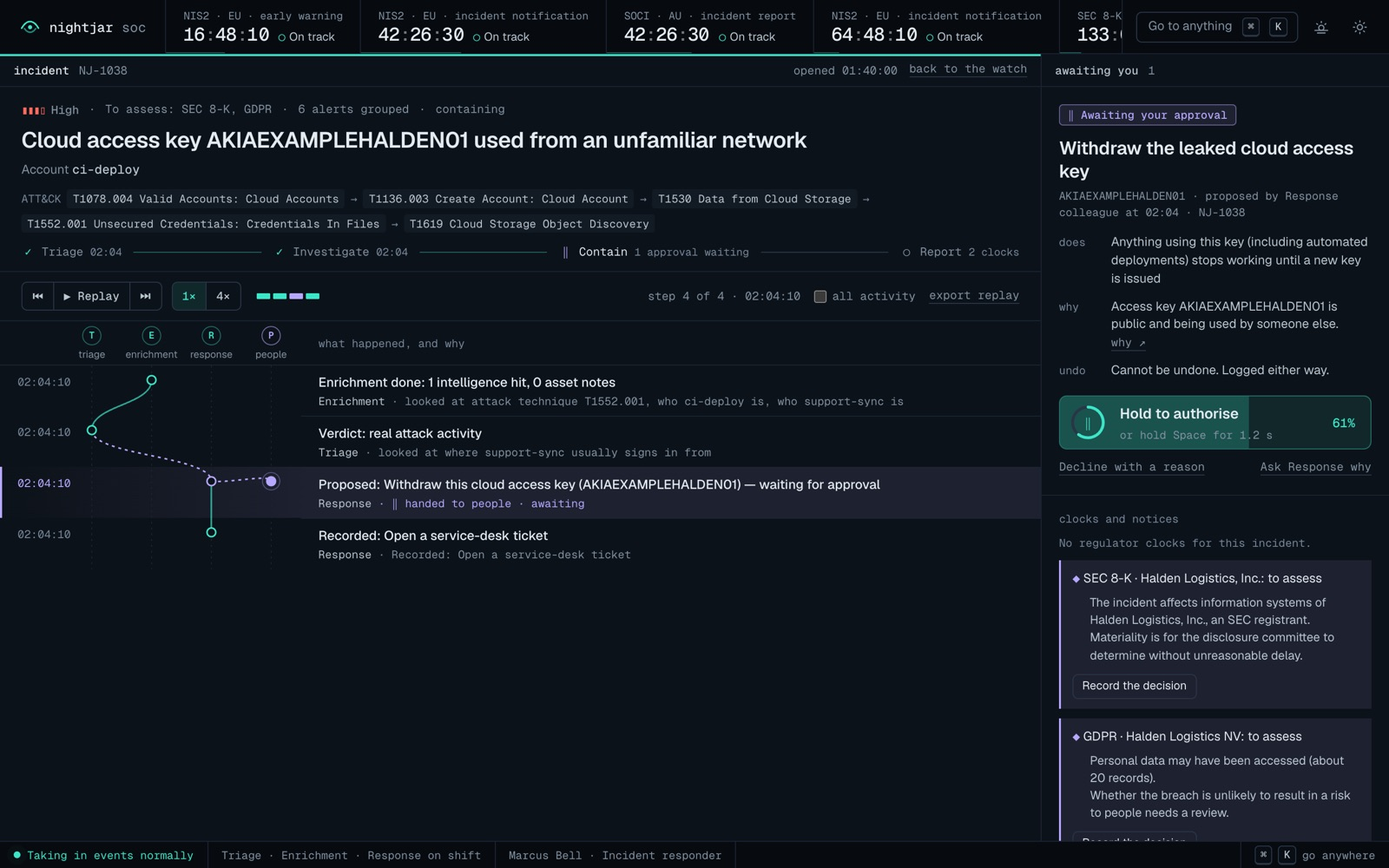
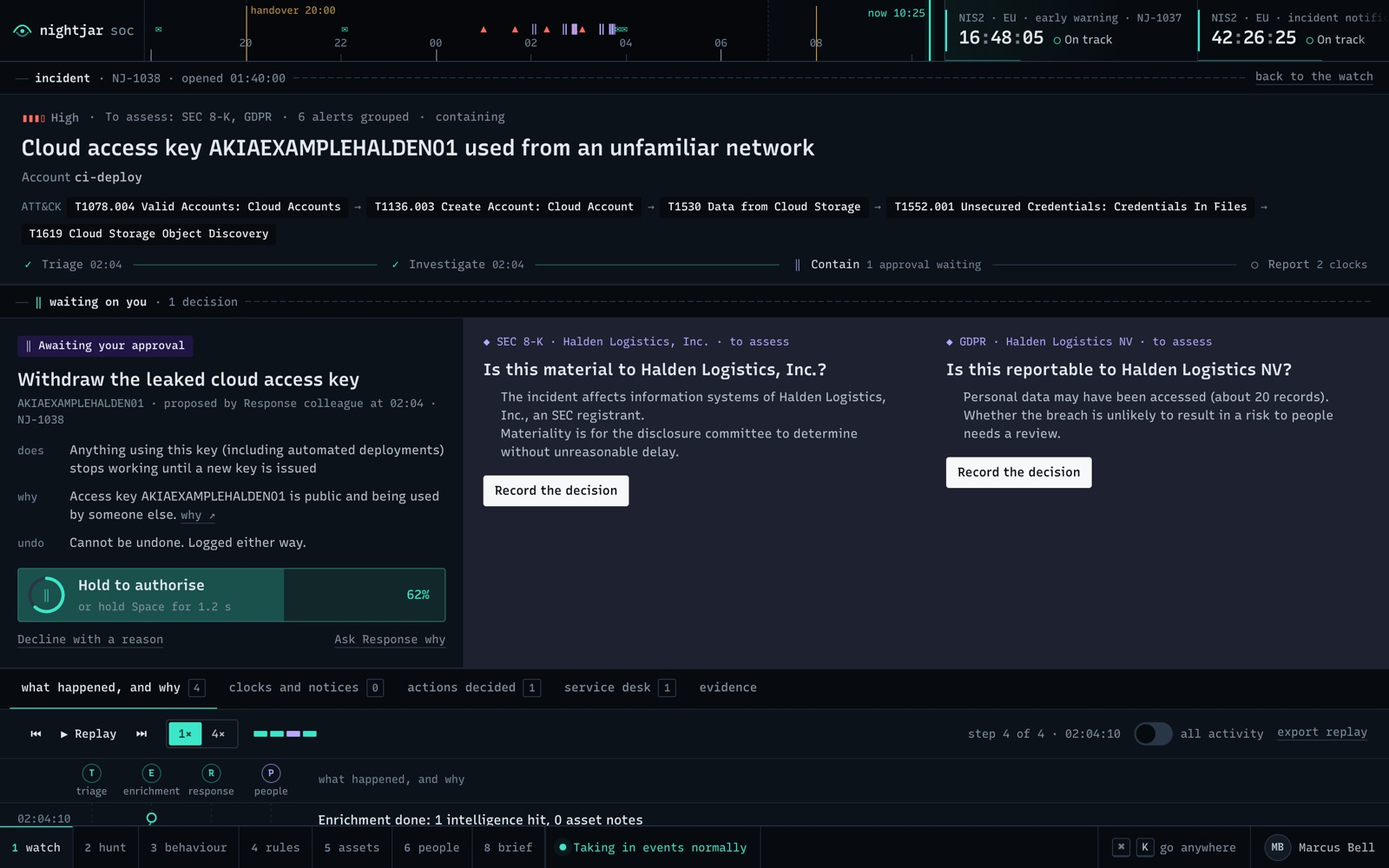
docs: the shift-chart layout, Skeleton and Recursive in the stack, and refreshed screenshots
DESIGN.md opens with the shift chart: why the night is the x-axis, the axis, band
and watch-bar layout, the Skeleton theme and component mapping, Recursive on its
MONO axis and the new motion. The day theme's teal is recorded at #087565 for AA.
The README names Skeleton in the stack, describes the watch as a shift chart, adds
the layout and contrast crawl and the current web test count, and the screenshots
are retaken with the demo clock on 20 November 2025.

diff --git a/frontend/DESIGN.md b/frontend/DESIGN.md
@@ -5,8 +5,103 @@
 Nightjar SOC is a managed security-operations platform for mid-size companies. It takes in security events around the clock and groups threats into incidents (Sigma rules, MITRE ATT&CK). It spots unusual behaviour, and three cooperating AI teammates (**Triage**, **Enrichment**, **Response**) investigate. When an incident is reportable, it starts the regulator's clock (EU NIS2, US SEC Form 8-K Item 1.05, Australia SOCI) and drafts the notice. **A person approves every response action.** Executives get a plain-language morning brief.
 
 - **Demo company:** **Halden Logistics**, with an EU distribution centre in Antwerp (NIS2, GDPR), a US-listed parent headquartered in Memphis (SEC Form 8-K), and a critical freight network run from Melbourne (SOCI).
-- **Stack:** SvelteKit + TypeScript + Tailwind 4.1 (the tokens below go into `@theme`). Motion uses Svelte built-ins only: `svelte/transition`, `svelte/animate` (`flip`), `crossfade`, and the `Spring`/`Tween` classes from `svelte/motion` with `prefersReducedMotion`. There is no animation library.
+- **Stack:** SvelteKit + TypeScript + Tailwind 4.1 with the **Skeleton** design system (`@skeletonlabs/skeleton` 3.2.2 + `@skeletonlabs/skeleton-svelte` 1.5.3, Zag.js underneath) on a custom `nightjar` theme built from the tokens below. Motion uses Svelte built-ins only: `svelte/transition`, `svelte/animate` (`flip`), `crossfade`, and the `Spring`/`Tween` classes from `svelte/motion` with `prefersReducedMotion`. There is no animation library.
 - **Copy date:** copy is written as of **late November 2025**. Anything time-sensitive is computed at runtime (§13).
+
+---
+
+## 0. The shift chart: how the console is laid out
+
+**§0 is the current layout and component system.** Where §3, §5, §6, §7, §10 or §16 describe the earlier tiled console (a clock bar on top, 1–4 tiles, a mono status line, Geist type), §0 wins; those sections still hold the metaphor, the palette, the status language, the clock rules, the baton, Hold to authorise and the copy voice.
+
+### 0.1 Why the night is the x-axis
+
+A night-shift analyst works one sequence: **intake → triage → investigation → containment approval → handover**, and every decision in it is anchored in time (when it started, how long it sat, which regulator clock it started, what the next shift inherits). The established tools show the same structure: queue-first homes (Splunk ES Mission Control's analyst queue, the Defender XDR incident queue, the Google SecOps case queue, Panther's alert list), phased response (Splunk ES response plans, SOAR workbooks, Google SecOps stages, the kill-chain view in Defender's incident summary), time drawn as lanes (Splunk's Asset & Identity Investigator swim lanes, Sentinel's parallel timeline), the incident as a log of time + responder + action (Google SecOps' Case Wall, Defender's Activities, the Google SRE incident document), and handover as a structured turnover (the SRE book's explicit hand-off; community SOC SOPs: active incidents, pending investigations, system health, notable events, compliance deadlines). NIST SP 800-61r3 keeps high-impact response actions with people.
+
+So the console is built on three ideas:
+
+1. **One shift axis across the top of every signed-in screen**: a time ruler from the 18:00 before the last night (or 12 hours back) to now. Night hours are shaded, the 08:00 and 20:00 shift changes are ruled, incidents (▲), approvals (‖) and notices (✉) sit where they happened, and a now line advances each minute. Past now, the axis folds into a **deadline gutter**: one flag per running regulator clock, with rolling digits. A new clock **drops onto the axis**.
+2. **Response stages as lanes** (Intake · Triage · Investigate · Contain · Report), read left to right in time. **Each incident is one line that steps down the lanes** at the times its log records, like a train on a railway dispatcher's timetable graph (Charles Ibry's chart, popularised by Marey for Paris–Lyon: time across, stations down, one line per train). A regulator clock marks the line (✉) without moving it, because a clock can start while containment is still waiting. Lines only ever step down.
+3. **The home is the turnover**: the handover sheet written live, in numbered sections, so the next shift never works from "I assumed you did it".
+
+### 0.2 The layout system: axis · bands · watch bar
+
+```
+┌───────────────┬────────────────────────────────────────────────────┬──────────────────────────────┐
+│ ◉ nightjar soc│ 18 · 20 ░░░ night ░░░ 00 · 02 · 04 · 06 ░│08 handover · 10 ┃now│▸ NIS2 16:48:35 ▸ SOCI 42:26 │ SHIFT AXIS 64
+├───────────────┴────────────────────────────────────────────────────┴──────────────────────────────┤
+│ ── the shift · 18:00 to now · 4 open incidents ───────────────────────────────── legend ─────────│
+│ intake        ▁▂▂▃▂▁▁▁▂▅█▃▂▁▁▂▂▁▁▂▂▃▂                               │ 1,240 events this hour      │ BAND 1
+│ triage            ●──┐        ●──┐                                  │                             │ the shift
+│ investigate          └──●        └─●──┐                             │ △ NJ-1039                   │ chart
+│ contain                 └────‖────────┼──────────────────────────── │ ‖ NJ-1038  ▲ NJ-1037        │
+│ report                                └──────────────────────────── │ ▲ NJ-1036                   │
+│ ── turnover · what the next person needs ────────────────────────────────────────────────────────│
+│ 1 waiting on you   │ 2 clocks to watch   │ 3 intake, live        │ 4 since you last looked       │ BAND 2
+├──────────────────────────────────────────────────────────────────────────────────────────────────┤
+│ 1 watch │2 hunt│3 behaviour│4 rules│5 assets│6 people│7 log│8 brief│ ● normal │ ⌘K │ (MB) you   │ WATCH BAR 44
+└──────────────────────────────────────────────────────────────────────────────────────────────────┘
+```
+
+- **Columns are shared.** The axis and every chart use one grid: lane labels (`--gut`, 132 px) · the night · the deadline gutter (`--dl`), so an incident's tick on the axis sits directly above its line.
+- **Bands.** Every page is a stack of full-width, hard-edged bands. Each opens with a terminal-style rule `── n · title · context ────── actions ─` in lowercase mono. Bands never sit side by side as cards; parallel sections (the turnover) are ruled columns inside one band, and they stack on narrow screens.
+- **Watch bar.** Docked full width at the bottom, tmux style: numbered windows `1 watch · 2 hunt · 3 behaviour · 4 rules · 5 assets · 6 people · 7 log · 8 brief` (Alt+1 … Alt+8), the intake health in plain words, ⌘K, and you (avatar → role, day watch, confirm-by-typing, settings, sign out). There is no sidebar and no top navigation; ⌘K stays the fastest way anywhere.
+- **Detail never opens as a side column.** A step's evidence, an asset, a decision or ⌘K open as Skeleton modals: a **bottom sheet** that rises over the bands, or a **dialog** that drops from the axis.
+
+| Screen | Layout |
+|---|---|
+| Watch `/watch` | Band 1: the shift chart (intake bars by hour; each incident's stepped line; open incidents as chips in the now column). Band 2: the turnover. Responders and admins: 1 waiting on you (approvals with Hold to authorise, the draft notice) · 2 clocks to watch · 3 intake, live (the event river) · 4 since you last looked. Analysts get *worth a hunt* first, auditors *the activity chain* and *evidence*. Phones: the lanes and the turnover as accordions |
+| Incident `/incidents/[id]` | Header band (severity, title, people and machines, ATT&CK chain, the stage rail with times) → **waiting on you** band directly under it (approval columns, each with Hold; open regulator assessments) → tabs: *what happened, and why* (the baton replay) · *clocks and notices* · *actions decided* · *service desk* · *evidence*. A step opens as a bottom sheet; the materiality decision as a dialog |
+| Notice | Readiness band (a progress meter, "4 of 5 required fields filled", missing fields as chips that jump to the field) → the draft band → the evidence band it cites (`[E-xx]` scrolls to and lights the item) |
+| Hunt, saved searches, rules, behaviour, assets, people, activity, settings | One band each. Registers are Skeleton tables; filters are segmented controls; an asset's detail is a bottom sheet; the activity log is paginated; settings switch between members and regulator contacts; deleting a saved search asks in a dialog |
+| Landing `/` | The product's own grammar replaying the night: the axis fills toward 03:13, intake bars rise, Joy's line steps down the lanes, the NIS2 flag drops into the gutter; under it the night log types left-aligned beneath a rolling clock and ends on "Someone is always on watch.", with the Hold box ("Turn off Joy's account?") in the gutter column. Then the shift log as one four-column ruled band (22:00 · 01:30 · 03:12 · 08:00 at dawn) and the clocks it keeps as a table |
+| Sign-in | The idle axis, then a left-aligned **sign-on** band: "You take the watch at 10:24 · Thursday 20 November", the demo roles as a segmented control, then your own account |
+| Brief `/brief` | The axis and the watch bar in dawn tones; dawn bands: the headline → the decision → **the night the watch saw** (the same shift chart, compact and read only) → one ruled band of clocks · approved overnight · on watch now and posture → overnight in plain words · seven nights |
+
+### 0.3 Component system: Skeleton
+
+Skeleton v3 (`@skeletonlabs/skeleton` 3.2.2 for the Tailwind 4 theme, presets and utilities; `@skeletonlabs/skeleton-svelte` 1.5.3 for the Svelte 5 components on Zag.js), with a custom **`nightjar`** theme (`src/lib/theme/nightjar.css`) generated from the palette in §8:
+
+| Skeleton scale | From | Use |
+|---|---|---|
+| `surface` 50–950 | the day and night neutrals (`#F6F8F9` … `#070B10`) | surfaces, rules (`surface-200-800` hairline, `300-700` strong) |
+| `primary` | mint teal: 300 = night `#3CE6C8`, 700 = day `#087565` (refined from `#0A7F6D`, which measured 4.2 : 1 on the day background) | live, focus, the teammates, on track (`preset-filled-primary-700-300`) |
+| `secondary` | lavender `#B6A8FF` / `#5B45C9` | waiting for a person, ◆ decisions |
+| `warning` · `error` · `success` | amber · red · teal-green | due soon · overdue, critical · contained, sent |
+| `tertiary` | steel | routine lines |
+
+Tailwind's `dark` variant follows `<html data-theme>`, so the light/dark pairings pick the day or night value. Radius: 3 px on controls, 0 on bands and sheets.
+
+| Was | Now |
+|---|---|
+| hand-rolled `.btn` / `.chip` / `.input` / `.ledger` | Skeleton `btn` + presets, `badge` / `chip`, `input` / `select` / `textarea` / `label`, `table` (with a thin Nightjar skin) |
+| segmented toggles | **Segment** (`Choice.svelte`) |
+| tiles (`Pane`) | `Band.svelte` |
+| clock bar, status line | the shift axis (**Tooltip** on marks, **Popover** of clocks on phones) and the watch bar (**Navigation** bar, **Avatar**, **Popover**, **Switch**) |
+| palette overlay, step drawer, decision sheet, asset pane, `window.confirm` | **Modal** (`Sheet.svelte`: bottom sheet or dialog) |
+| toast stack | **Toaster** + `createToaster` |
+| incident side column | **Tabs** |
+| phone tile swiping | **Accordion** |
+| hold ring SVG | **ProgressRing** driven by the hold state machine |
+| notice "missing fields" list | **Progress** + badges |
+| activity "more" | **Pagination** |
+
+### 0.4 Type: Recursive on its MONO axis
+
+One variable family, **Recursive** (Arrow Type; OFL), self-hosted from `@fontsource-variable/recursive` (the `mono` file: weight 300–1000 + the MONO axis, 72 KB for Latin). Recursive is "a variable font family for code & UI"; its Sans "borrows glyphs from its parent mono but adjusts the widths of many key glyphs for comfortable readability".
+
+- **Sans Linear** (MONO 0) for what a person reads or decides: titles, sentences, buttons.
+- **Mono Linear** (MONO 1) for what a machine wrote or a clock counts: log lines, IOCs, timestamps, clocks, lane and band labels. Fixed width keeps columns of times and addresses aligned; `0/O` and `1/l/I` stay distinct in an indicator.
+- No casual (CASL) styles anywhere. Labels stay lowercase mono, never tracked caps.
+
+### 0.5 Motion additions
+
+- **Drop** lands a deadline flag on the axis gutter (620 ms, back-out).
+- **Step:** incident lines grow rightward from where they opened (a clip, 900 ms) and step down a lane when the log records the next stage.
+- **Resolve:** a raw log line (MONO 1) eases into plain words (MONO 0) when it joins an incident, 600 ms.
+- **Now line:** advances each minute with a 2.4 s pulse.
+- **Bands** settle 6 px on arrival; sheets rise 24 px, dialogs drop 12 px from the axis, toasts slide 8 px.
+- `prefers-reduced-motion`: digits swap, lines appear whole, no Resolve, the hold ring shows a percentage, and modals and toasts appear without travel.
 
 ---
 
@@ -40,6 +135,13 @@ Every reference was re-checked in this design round. Vendor marketing pages were
 | 22 | Hyperping status page refresh: https://hyperping.com/blog/product-update-status-page-calendar-and-new-design | A **calm grey scale in both themes** so the one accent and the incidents stand out. → Teal is rationed to live, focus, the teammates and "on track". |
 | 23 | Gallery pieces with console, ops or night themes: Awwwards "Darknode" (SOTD, stealth/mission minimalism) https://www.awwwards.com/sites/darknode · Awwwards mission-control inspiration https://www.awwwards.com/inspiration/desktop-mission-control-1 · Order's interactive-console launch page (One Page Love) https://onepagelove.com/?p=49097 · "Orbital Reach" flight-director terminal landing (Kombai gallery) https://kombai.com/gallery/inspirations/orbital/ | A landing that **is** a working console rather than a picture of one, with minimal chrome and a single live element carrying the story. → The landing is the console replaying a night, and the headline arrives as the last log entry. **Avoided:** neon on black, glowing world maps (the Dribbble "security dashboard" cliché), scanlines and fake-hacker green. *Note: godly.website now redirects to recent.design; this was checked, and no Godly entry matched better than the pieces above.* |
 | 24 | Svelte motion API: https://svelte.dev/docs/svelte/svelte-motion | The `Spring`/`Tween` classes (`Tween.of`, `preserveMomentum`) and `prefersReducedMotion`. These drive Tick, Drop and Hold, plus `crossfade` + `flip` for Coalesce. |
+| 25 | Splunk ES 8 Mission Control and response plans: https://help.splunk.com/en/splunk-enterprise-security-8/user-guide/8.4/mission-control/respond-to-investigations-with-response-plans-in-splunk-enterprise-security | A **queue-first home** with a timeline toggle, and response as **phases of tasks**. → The turnover is home; the stage lanes are the phases. |
+| 26 | Splunk Asset & Identity Investigator: https://help-preview.splunk.com/en/splunk-enterprise-security-8/user-guide/8.0/analytics/asset-and-identity-investigator-dashboards | **Swim lanes over time**, one per event category. → Response stages as lanes on the shift axis. |
+| 27 | Google SRE, managing incidents and the incident document: https://sre.google/sre-book/managing-incidents/ · https://sre.google/sre-book/incident-document/ | An **explicit, acknowledged hand-off** and a living document whose timeline is time + responder + action. → The turnover band and the shift log. |
+| 28 | SecOps shift handoffs: https://cloud.google.com/blog/products/identity-security/how-to-nail-smooth-shift-handoffs-in-secops | Shifts fail through **incomplete details, wrong assumptions and dropped tasks**; use a standard handoff template. → The turnover's fixed, numbered sections. |
+| 29 | NIST SP 800-61r3: https://csrc.nist.gov/pubs/sp/800/61/r3/final | Leadership may hold authority over **high-impact response actions**; handlers should be able to choose containment manually. → Waiting on you sits directly under every incident header. |
+| 30 | Charles Ibry's timetable chart: https://en.wikipedia.org/wiki/Charles_Ibry | **One line per train, time across, stations down.** → One line per incident, the night across, the response stages down. |
+| 31 | Skeleton v3: https://v3.skeleton.dev/docs/get-started/installation/sveltekit · Recursive: https://github.com/arrowtype/recursive | The component system and its theme presets; one type family whose MONO axis separates what a person reads from what a machine wrote. |
 
 ---
 
@@ -524,7 +626,9 @@ Teammates appear as "Response (teammate)", never by internal names. A teammate's
 
 ## 7. Type
 
-**Geist** for UI and reading, **Geist Mono** for time, IDs, labels and keycaps. There is **no serif** anywhere. Labels are **lowercase mono** ("events", "awaiting you", "notice · draft 2"), never uppercase-tracked mono.
+> Superseded by §0.4: the console is set in **Recursive** (Sans Linear for reading, Mono Linear for time, IDs, labels and keycaps). The roles and sizes below still apply with Recursive in place of Geist / Geist Mono.
+
+**Recursive Sans** for UI and reading, **Recursive Mono** for time, IDs, labels and keycaps. There is **no serif** anywhere. Labels are **lowercase mono** ("events", "awaiting you", "notice · draft 2"), never uppercase-tracked mono.
 
 | Token | Face / weight | Size / line | Use |
 |---|---|---|---|
@@ -538,7 +642,7 @@ Teammates appear as "Response (teammate)", never by internal names. A teammate's
 | `body` | Geist 400 | 13–14 / 1.45 (console), 16–19 / 1.6 (brief) | text |
 | `meta` | Geist Mono 400 | 11–12.5 / 1.3 | timestamps, "looked at", pane titles, keycaps |
 
-Numbers in mono always use `tnum`. Geist Mono's slashed zero is kept: it is part of the console's identity and avoids O/0 confusion in IDs.
+Numbers in mono always use `tnum` and the slashed zero (`zero`): it is part of the console's identity and avoids O/0 confusion in IDs.
 
 ---
 
@@ -573,7 +677,7 @@ Mint teal (hue ≈170°) is the only accent. It is used for **light and line** (
 | `bg` / `pane` / `raised` | `#E9EEF0` / `#FFFFFF` / `#F3F6F7` |
 | `line` / `line-strong` | `#DCE3E7` / `#C4CED4` |
 | `ink` / `ink-2` / `muted` / `faint` | `#0B141B` / `#2B3943` / `#53626E` / `#5F6E78` (faint is 4.85 : 1 on white) |
-| `teal` | `#0A7F6D` (4.9 : 1 on white) |
+| `teal` | `#087565` (5.6 : 1 on white, 4.8 : 1 on the day background; was `#0A7F6D`, 4.2 : 1 on the background) |
 | `amber` / `red` / `lav` | `#8A5D00` / `#B42318` / `#5B45C9` |
 
 ### Brief: dawn (light, default) and night edition (dark)
@@ -585,7 +689,7 @@ Mint teal (hue ≈170°) is the only accent. It is used for **light and line** (
 | `ink` / `ink-2` | `#0D1A20` / `#33444C` | `#E6EDF1` / `#BAC7CE` |
 | `muted` / `faint` | `#4C5B63` (5.3 : 1 on the wash) / `#5E6D74` | `#8F9EA8` / `#8392A0` |
 | `rule` / `rule-2` | `#DCE4E2` / `#C9D4D1` | `#1B2731` / `#283643` |
-| `teal` / `lav` | `#0A7F6D` / `#5B45C9` | `#3CE6C8` / `#B6A8FF` |
+| `teal` / `lav` | `#087565` / `#5B45C9` | `#3CE6C8` / `#B6A8FF` |
 | sun rings | `rgba(10,127,109,.16)` | `rgba(60,230,200,.14)` |
 
 Landing dawn transition (08:00 section): `#070B10 → #0F2830 (30%) → #CFE7E1 (75%) → #EEF5F2`.
@@ -724,11 +828,12 @@ Nightjar SOC is dark-first, time-first, and its landing is a live console. One c
 ## 16. Build notes
 
 **Svelte components (as built):**
-- shell: `ClockBar`, `ClockCell` (Tick + Drop + elapsed rule), `Tick` / `Digit`, `StatusLine`, `CommandPalette`, `Pane`, `Toasts`, `Logo`;
-- console: `EventRiver` (minute groups + fold), `IncidentHeader`, `IncidentView`, `BatonTimeline` (lane tracks, SVG links, bead, Replay controller), `StepDrawer`, `ApprovalCard`, `HoldButton`, `DecisionSheet`, `AwaitingTile`, `EvidenceTile`, `HuntPanel`, `BehaviourPanel` (rhythm strips), `ActivityPanel`, `Untrusted`;
+- ui (on Skeleton): `Band`, `Choice` (Segment), `Sheet` (Modal: bottom sheet or dialog);
+- shell: `ShiftAxis` (time ruler, marks with Tooltips, deadline gutter with Tick + Drop), `WatchBar` (Navigation bar, Avatar, Popover, Switch), `Tick` / `Digit`, `CommandPalette` (in a Modal), `SettingsNav`, `Logo`;
+- console: `ShiftChart` (lanes, stepped incident lines, intake bars, now column; Accordion on phones), `Turnover`, `ClockList`, `EventRiver` (minute groups + fold + Resolve), `IncidentHeader`, `BatonTimeline` (lane tracks, SVG links, bead, Replay controller), `StepDrawer`, `ApprovalCard`, `HoldButton` (ProgressRing), `DecisionSheet`, `AwaitingTile`, `EvidenceTile`, `HuntPanel`, `BehaviourPanel` (rhythm strips), `ActivityPanel` (Pagination), `Untrusted`;
 - brief: the `(read)/brief` routes and `SevenNights`.
 
-Clock maths lives in one `src/lib/time/clock.ts` (regime windows, business days with a US federal holiday list, timezone per regime). The UI never computes deadlines inline. Geist and Geist Mono are bundled (`@fontsource-variable/*`), so the app has no external runtime dependency.
+The shift chart's layout (the window, the scale, each incident's path, the intake bars and the axis marks) is pure TypeScript in `src/lib/util/shift.ts`, fed by one store (`src/lib/stores/shift.svelte.ts`) that reads the shift log since the window opened. Clock maths lives in one `src/lib/time/clock.ts` (regime windows, business days with a US federal holiday list, timezone per regime). The UI never computes deadlines inline. Recursive is bundled (`@fontsource-variable/recursive`), so the app has no external runtime dependency.
 
 **Regulatory facts used (designed to support, not legal advice):**
 - **NIS2 Art. 23:** early warning within 24 h of becoming aware, incident notification within 72 h, final report within one month of the notification.

diff --git a/README.md b/README.md
@@ -38,7 +38,7 @@ regime has its own trigger, its own clock and its own recipient. Missing an earl
 | A night of pages for a backup-software update | A **calibrated triage model** that scores every alert with plain reasons, so 146 alerts become one likely-benign incident |
 | An analyst stitching together logs at 3 a.m. | **Three AI teammates** (Triage, Enrichment, Response) that investigate over an open agent protocol, with every step recorded and replayable |
 | Automation with the keys to production | **Hold to authorise**: no host is isolated and no account disabled without a signed, single-use human approval. Crown-jewel systems need the CISO as well |
-| Deadlines tracked in a spreadsheet | A **regulator clock bar** for NIS2, SEC 8-K, SOCI and GDPR, with countdowns in each regulator's time zone and business days for the SEC |
+| Deadlines tracked in a spreadsheet | **Regulator clocks on the shift axis** for NIS2, SEC 8-K, SOCI and GDPR, with countdowns in each regulator's time zone and business days for the SEC |
 | Notices written from scratch under pressure | **Drafted notices** with a missing-fields check, approval by the CISO and a recorded (simulated) submission |
 | A Monday slide deck | A **morning brief** for the CISO and a weekly report, in plain language |
 
@@ -48,15 +48,15 @@ The seeded roles match how a small security team and its executives work.
 
 | Role | What they get |
 |---|---|
-| **Security analyst** | The Watch: a live event river, incidents with the teammates' work laid out as a baton timeline, and Replay to step through any investigation. Each step shows what was looked at and why. Triage scores read "94 in 100" with the top three reasons. Plain-words hunting with saved and suggested searches, unusual-behaviour rhythm strips per person and computer, and detection rules as readable sentences with the Sigma source a keystroke away (turn rules on or off). Analysts can propose actions and draft notices |
+| **Security analyst** | The Watch: the night as a shift chart (every incident's path through triage, investigation, containment and reporting, on one time axis) and the turnover, the handover sheet written live; a live event river, incidents with the teammates' work laid out as a baton timeline, and Replay to step through any investigation. Each step shows what was looked at and why. Triage scores read "94 in 100" with the top three reasons. Plain-words hunting with saved and suggested searches, unusual-behaviour rhythm strips per person and computer, and detection rules as readable sentences with the Sigma source a keystroke away (turn rules on or off). Analysts can propose actions and draft notices |
 | **Incident responder** | Approval cards that show what will happen, why, the least-privilege tool that will do it and how to undo it. **Hold to authorise** (1.2 s, pointer, Space or Enter) or decline with a reason. Reversals (release a host, re-enable an account) also need approval. Built-in tickets |
-| **CISO / executive** | The regulator clock bar, applicability proposals with reasons, and the determination: significant, material or relevant impact. Notice drafting, approval and submission (simulated), with a recorded Attorney General delay for Form 8-K. Second approval on crown-jewel systems and privileged accounts. The **morning brief** (a separate dawn reading mode with one decision box and the last seven nights), the weekly report, regulator contacts and model promotion |
+| **CISO / executive** | The regulator clocks on the shift axis, applicability proposals with reasons, and the determination: significant, material or relevant impact. Notice drafting, approval and submission (simulated), with a recorded Attorney General delay for Form 8-K. Second approval on crown-jewel systems and privileged accounts. The **morning brief** (a separate dawn reading mode with one decision box and the last seven nights), the weekly report, regulator contacts and model promotion |
 | **Auditor** | Read-only access to incidents, every agent step (with its A2A task id and input hash), approvals and notices, plus the activity log with a one-click check that the hash chain is intact and a CSV export |
 | **Administrator** | Members, invitations, ingest keys for event sources, and organisation settings |
 
 Across all of them:
 
-- **⌘K first.** The command palette is the navigation (do · go to · switch), scoped to the open incident first.
+- **One grammar.** A shift axis across the top of every screen (regulator deadlines folded at its end), full-width bands, and a numbered watch bar at the bottom (Alt+1…8). ⌘K finds anything (do · go to · switch), scoped to the open incident first.
 - **Live.** Clocks tick, incidents coalesce and approvals land over Server-Sent Events.
 - **Separation of duties.** Nobody can be the only approver of an action they requested; pending approvals expire
   after 24 hours.
@@ -219,7 +219,7 @@ flowchart LR
 | Classical ML | scikit-learn (Isolation Forest, logistic regression, random forest), LightGBM, Optuna, isotonic calibration, SHAP (TreeSHAP), MLflow (local tracking), PSI drift |
 | Agents and tools | `a2a-sdk` 1.3 (A2A protocol, JSON-RPC), `mcp` 2.3 (Streamable HTTP, bearer-token scopes), LiteLLM (optional) with a deterministic offline fake |
 | Hunting | DuckDB (embedded, columnar), Parquet snapshots for training |
-| Web | SvelteKit 2, Svelte 5, TypeScript, Tailwind CSS 4.1, Geist and Geist Mono (bundled), Svelte motion built-ins |
+| Web | SvelteKit 2, Svelte 5, TypeScript, Tailwind CSS 4.1, **Skeleton** (design system: Skeleton 3 theme and presets, Skeleton Svelte components on Zag.js) with a custom Nightjar theme, Recursive (bundled; Sans for reading, Mono for logs and clocks), Svelte motion built-ins |
 | Quality | pytest, Ruff, mypy, svelte-check, ESLint, Vitest, an evaluation harness with 25 gates, GitHub Actions CI |
 
 ## AI and machine learning
@@ -372,9 +372,14 @@ Measured on one laptop with everything running offline (`nats-server`, API, work
 production web build) and the demo clock set to 20 November 2025.
 
 - **Tests:** 556 backend tests (pytest: platform, API, RBAC, tenant isolation, approvals and tokens, clock maths,
-  hunting, seed, pipeline, detection, ML, agents and safety) and 109 web tests (Vitest: API client, clock maths,
-  hold to authorise, untrusted text, hunting, rules, the brief and end-to-end flows through the mock API). Ruff,
+  hunting, seed, pipeline, detection, ML, agents and safety) and 145 web tests (Vitest: API client, clock maths,
+  hold to authorise, untrusted text, hunting, rules, the brief, the shift chart's layout, the shell model, the
+  band primitives and end-to-end flows through the mock API). Ruff,
   mypy, svelte-check and ESLint are clean, and `alembic check` finds no drift.
+- **Layout and contrast crawl on the live stack:** every console, brief and public route, signed in as each of the
+  five roles, in the night and day themes at 1440 px and at 390 px (302 page views): no horizontal overflow. The
+  day theme's teal was darkened to `#087565` where it measured 4.2 : 1, and a re-check (126 page views) found no
+  text below WCAG AA contrast.
 - **Browser journeys on the live stack:** 52 steps with system Chrome, signed in as each role (the landing replay
   and hold, the watch and ⌘K, the incident replay and step drawer, hold to authorise, self-approval refused, the
   CISO's co-approval on a crown jewel, a NIS2 notice drafted, completed and submitted, the SEC decision, hunting,
@@ -421,14 +426,14 @@ All screens use the synthetic Halden Logistics demo with the clock set to late N
 
 | | |
 |---|---|
-| ![The landing page replays a night at Halden Logistics; three alerts become one incident and the NIS2 clock starts](docs/screenshots/landing-replay.jpg) | ![The watch: live event intake, the incident being worked and approvals awaiting a person, under the regulator clock bar](docs/screenshots/the-watch.jpg) |
-| **Landing replay.** One night at the sample company, from the first odd sign-in to the regulator clock. | **The watch.** Events, the incident in hand and approvals, under running deadlines. |
-| ![An incident's investigation as a baton timeline across the triage, enrichment and response teammates](docs/screenshots/incident-baton.jpg) | ![Hold to authorise: withdrawing a leaked cloud access key waits for a person to press and hold](docs/screenshots/hold-to-authorise.jpg) |
-| **Baton timeline.** The AI teammates' investigation, replayable step by step. | **Hold to authorise.** Nothing is switched off until a person holds; crown jewels need two. |
-| ![A NIS2 early-warning draft with one required field still to confirm](docs/screenshots/nis2-notice-draft.jpg) | ![Unusual behaviour: 14 days of hourly activity per person with the outlier marked](docs/screenshots/unusual-behaviour.jpg) |
-| **Notice draft.** Filled from the evidence; the missing fact is flagged before submission. | **Unusual behaviour.** Each person and device against their own normal. |
-| ![The CISO's morning brief in its dawn edition](docs/screenshots/ciso-morning-brief.jpg) | ![The watch on a phone](docs/screenshots/phone-watch.jpg) |
-| **Morning brief.** A two-minute read for the CISO, decisions included. | **On a phone.** One pane at a time for whoever is on call. |
+| ![The landing page replays a night at Halden Logistics on the shift chart; three alerts become one incident and the NIS2 clock drops onto the time axis](docs/screenshots/landing-replay.jpg) | ![The watch: the night as a shift chart, every incident stepping through triage, investigation, containment and reporting, above the handover sheet](docs/screenshots/the-watch.jpg) |
+| **Landing replay.** One night at the sample company, drawn on the product's own chart, from the first odd sign-in to the regulator clock. | **The watch.** The night across, the response stages down, deadlines at the end of the axis, and the turnover below. |
+| ![An incident's investigation as a baton timeline across the triage, enrichment and response teammates, under the incident header and its tabs](docs/screenshots/incident-baton.jpg) | ![Hold to authorise: withdrawing a leaked cloud access key waits for a person to press and hold, beside the regulator questions for the same incident](docs/screenshots/hold-to-authorise.jpg) |
+| **Baton timeline.** The AI teammates' investigation, replayable step by step; decisions sit directly under the incident header. | **Hold to authorise.** Nothing is switched off until a person holds; crown jewels need two. |
+| ![A NIS2 early-warning draft with a readiness meter and one required field still to confirm](docs/screenshots/nis2-notice-draft.jpg) | ![Unusual behaviour: 14 days of hourly activity per person with the outlier marked](docs/screenshots/unusual-behaviour.jpg) |
+| **Notice draft.** Filled from the evidence; the readiness meter flags the missing fact before submission. | **Unusual behaviour.** Each person and device against their own normal. |
+| ![The CISO's morning brief in its dawn edition, on the same time axis as the watch](docs/screenshots/ciso-morning-brief.jpg) | ![The watch on a phone: response stages and the handover as sections, numbered windows at the bottom](docs/screenshots/phone-watch.jpg) |
+| **Morning brief.** A two-minute read for the CISO, decision first, with the night drawn on the same chart. | **On a phone.** Lanes and handover fold into sections for whoever is on call. |
 
 ## Compliance alignment
 

diff --git a/frontend/README.md b/frontend/README.md
@@ -1,12 +1,16 @@
 # Nightjar SOC web app (SvelteKit)
 
-The console, the landing page, sign-in and the CISO brief, built to `DESIGN.md` ("the night watch"): a ⌘K-first
-tiled console with the regulator clock bar on top and a mono status line, the baton timeline with Replay, Hold to
-authorise, and a separate dawn-washed morning brief.
+The console, the landing page, sign-in and the CISO brief, built to `DESIGN.md` §0 ("the shift chart"): a shift
+axis across the top of every screen with the regulator deadlines folded at its end, full-width bands, response stages
+as lanes with one stepped line per incident, the turnover (the handover sheet) as home, a tmux-style watch bar at the
+bottom, the baton timeline with Replay, Hold to authorise, and the dawn morning brief.
 
-- Node 21.7 (`.nvmrc`), exact pins (`.npmrc save-exact`), Tailwind 4.1 via `@tailwindcss/vite`, Geist and Geist Mono
-  bundled offline (`@fontsource-variable/*`). Motion uses Svelte built-ins only (`Tween`, `Spring`, `crossfade`,
-  `flip`, `prefersReducedMotion`).
+- Node 21.7 (`.nvmrc`), exact pins (`.npmrc save-exact`), Tailwind 4.1 via `@tailwindcss/vite`.
+- Component system: **Skeleton** (`@skeletonlabs/skeleton` 3.2.2 + `@skeletonlabs/skeleton-svelte` 1.5.3) on the
+  custom `nightjar` theme in `src/lib/theme/nightjar.css`; Tailwind's `dark` variant follows `<html data-theme>`.
+- Type: **Recursive** bundled offline (`@fontsource-variable/recursive`, the weight + MONO axis file): Sans Linear
+  for reading, Mono Linear for logs, indicators, timestamps and clocks. Motion uses Svelte built-ins only (`Tween`,
+  `Spring`, `crossfade`, `flip`, `prefersReducedMotion`).
 - `npm run dev` → http://localhost:3030 with `/api` proxied to the API on :8030 (`NIGHTJAR_API_URL` overrides). The
   **real API is the default**.
 - `npm run dev:mock` / `npm run preview:mock` → the same app against an in-browser mock of the API
@@ -15,7 +19,8 @@ authorise, and a separate dawn-washed morning brief.
 - `npm run build && npm run preview` → production build on :3030 with the same proxy; `npm run start` runs the
   adapter-node server (put a reverse proxy in front for `/api`).
 - `npm run check` (svelte-check), `npm run lint` (ESLint), `npm test` (Vitest: client, clock maths, hold, untrusted
-  text, palette, hunting, rules, brief and end-to-end flows through the mock API).
+  text, palette, hunting, rules, brief, the shift chart's layout, the shell model, the band primitives and end-to-end
+  flows through the mock API).
 
 ## Layout
 
@@ -23,8 +28,11 @@ authorise, and a separate dawn-washed morning brief.
 |---|---|
 | `src/lib/api/` | `client.ts` (CSRF, RFC 7807, refresh, server clock offset), `types.ts` (contract Part 1), `endpoints.ts`, `stream.ts` (SSE), `mock/` (dev and test only) |
 | `src/lib/time/clock.ts` | every deadline and countdown: NIS2, SEC 8-K Item 1.05 (US federal holidays), SOCI, states, labels |
-| `src/lib/components/shell/` | `ClockBar`, `ClockCell`, `Tick`/`Digit`, `StatusLine`, `CommandPalette`, `Pane` |
-| `src/lib/components/console/` | `EventRiver`, `IncidentHeader`, `BatonTimeline`, `StepDrawer`, `ApprovalCard`, `HoldButton`, `DecisionSheet`, `HuntPanel`, `BehaviourPanel`, `ActivityPanel`, `Untrusted` |
+| `src/lib/theme/nightjar.css` | the Skeleton theme: surface, primary (teal), secondary (lavender), warning, error, success and tertiary scales from the night and day tokens |
+| `src/lib/util/shift.ts`, `src/lib/stores/shift.svelte.ts` | the shift window, the scale, each incident's path through the lanes, intake bars and axis marks; the store that feeds them from the shift log |
+| `src/lib/components/ui/` | `Band` (the one container), `Choice` (Skeleton Segment), `Sheet` (Skeleton Modal: bottom sheet or dialog) |
+| `src/lib/components/shell/` | `ShiftAxis`, `WatchBar` (Skeleton Navigation bar), `Tick`/`Digit`, `CommandPalette`, `SettingsNav` |
+| `src/lib/components/console/` | `ShiftChart`, `Turnover`, `ClockList`, `EventRiver`, `IncidentHeader`, `BatonTimeline`, `StepDrawer`, `ApprovalCard`, `HoldButton`, `DecisionSheet`, `HuntPanel`, `BehaviourPanel`, `ActivityPanel`, `Untrusted` |
 | `src/routes/` | `/` landing, `/sign-in`, `/invite/[token]`, `(app)/…` the console, `(read)/brief…` the brief and weekly report |
 
 ## Contract notes
@@ -33,8 +41,8 @@ authorise, and a separate dawn-washed morning brief.
 - Least privilege for evidence: people with `detections:read` see the detections' event copies; the CISO (and
   anyone else) reads `GET /incidents/{id}/evidence`, a summary without matched fields or log text.
 - "Disagree" posts `/investigations/{runId}/steps/{seq}/feedback`; "add to incident" from a hunt posts
-  `/incidents/{id}/evidence`; "Not yet: decide by…" posts `/incidents/{id}/reporting/{regime}/defer` and the clock
-  bar shows "decide by …"; "Lower the noise" and "Mark as expected" create per-org exceptions (`/suppressions`).
+  `/incidents/{id}/evidence`; "Not yet: decide by…" posts `/incidents/{id}/reporting/{regime}/defer` and the
+  deadline gutter shows "decide by …"; "Lower the noise" and "Mark as expected" create per-org exceptions (`/suppressions`).
 - The hunting parser emits the normaliser's action names (`logon`, `logon-failed`, `mfa-push-denied`,
   `inbox-rule-created`, `s3-get-object`, …), the same names saved searches and suggestions use.
 - River minute totals are exact: `GET /events/river` returns `minutes`, and `river.batch` counts add to them.
